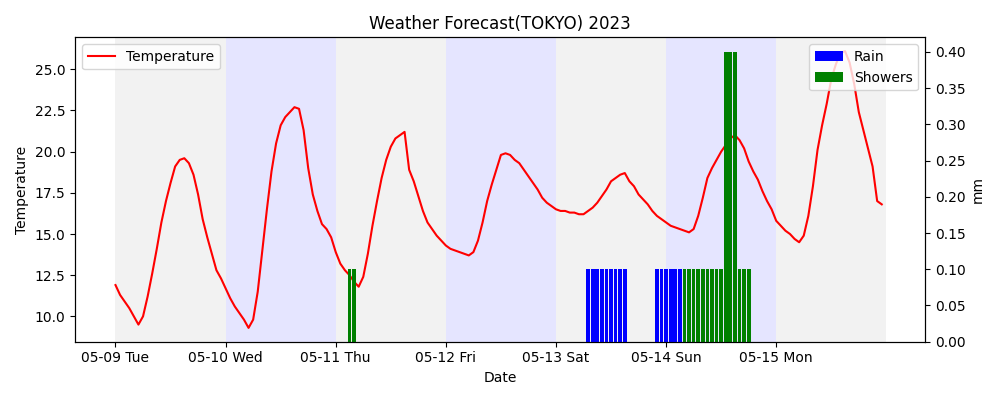
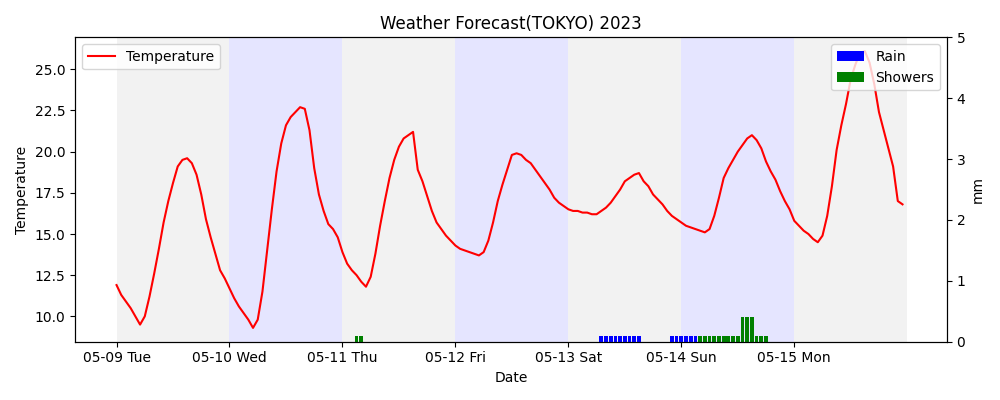
deploy: 7e1e63ad865dad880a3dc70c61e3d423fe79ea2a

diff --git a/docs/index.html b/docs/index.html
@@ -41,7 +41,7 @@
 <section id="letter">
 <h1>四季~Letter~<a class="headerlink" href="#letter" title="Permalink to this heading">¶</a></h1>
 <p>Weather data by Open-Meteo.com&lt;<a class="reference external" href="https://open-meteo.com/">https://open-meteo.com/</a>&gt;</p>
-<img alt="_images/forecast.png" class="align-center" src="_images/forecast.png" />
+<img alt="src/dashboard/forecast.png" class="align-center" src="src/dashboard/forecast.png" />
 <p>(★) : Hot article</p>
 <section id="thema">
 <h2>théma<a class="headerlink" href="#thema" title="Permalink to this heading">¶</a></h2>

diff --git a/files/src/dashboard/forecast.py b/files/src/dashboard/forecast.py
@@ -40,6 +40,9 @@ def draw_chart(data):
     ax2.bar(new_labels, rain, color='blue', label='Rain')
     ax2.bar(new_labels, showers, color='green', label='Showers')
 
+    ax2.set_ylim(0, 5)
+    #https://withbrides.co.jp/lady/precipitation_amount-1mm/
+
     x_labels = [datetime.fromisoformat(label).strftime('%m-%d %a') for label in labels]
 
     # set x-axis tick labels

diff --git a/test.py b/test.py
@@ -1,0 +1,12 @@
+
+from pandas_datareader import data  as pdr #修正
+from datetime import date
+from dateutil.relativedelta import relativedelta
+import yfinance as yf #追加
+yf.pdr_override() #追加
+
+today = date.today()
+ago = today - relativedelta(years=10)
+data = pdr.get_data_yahoo('^N225',  ago, today) #修正
+print(data)
+
